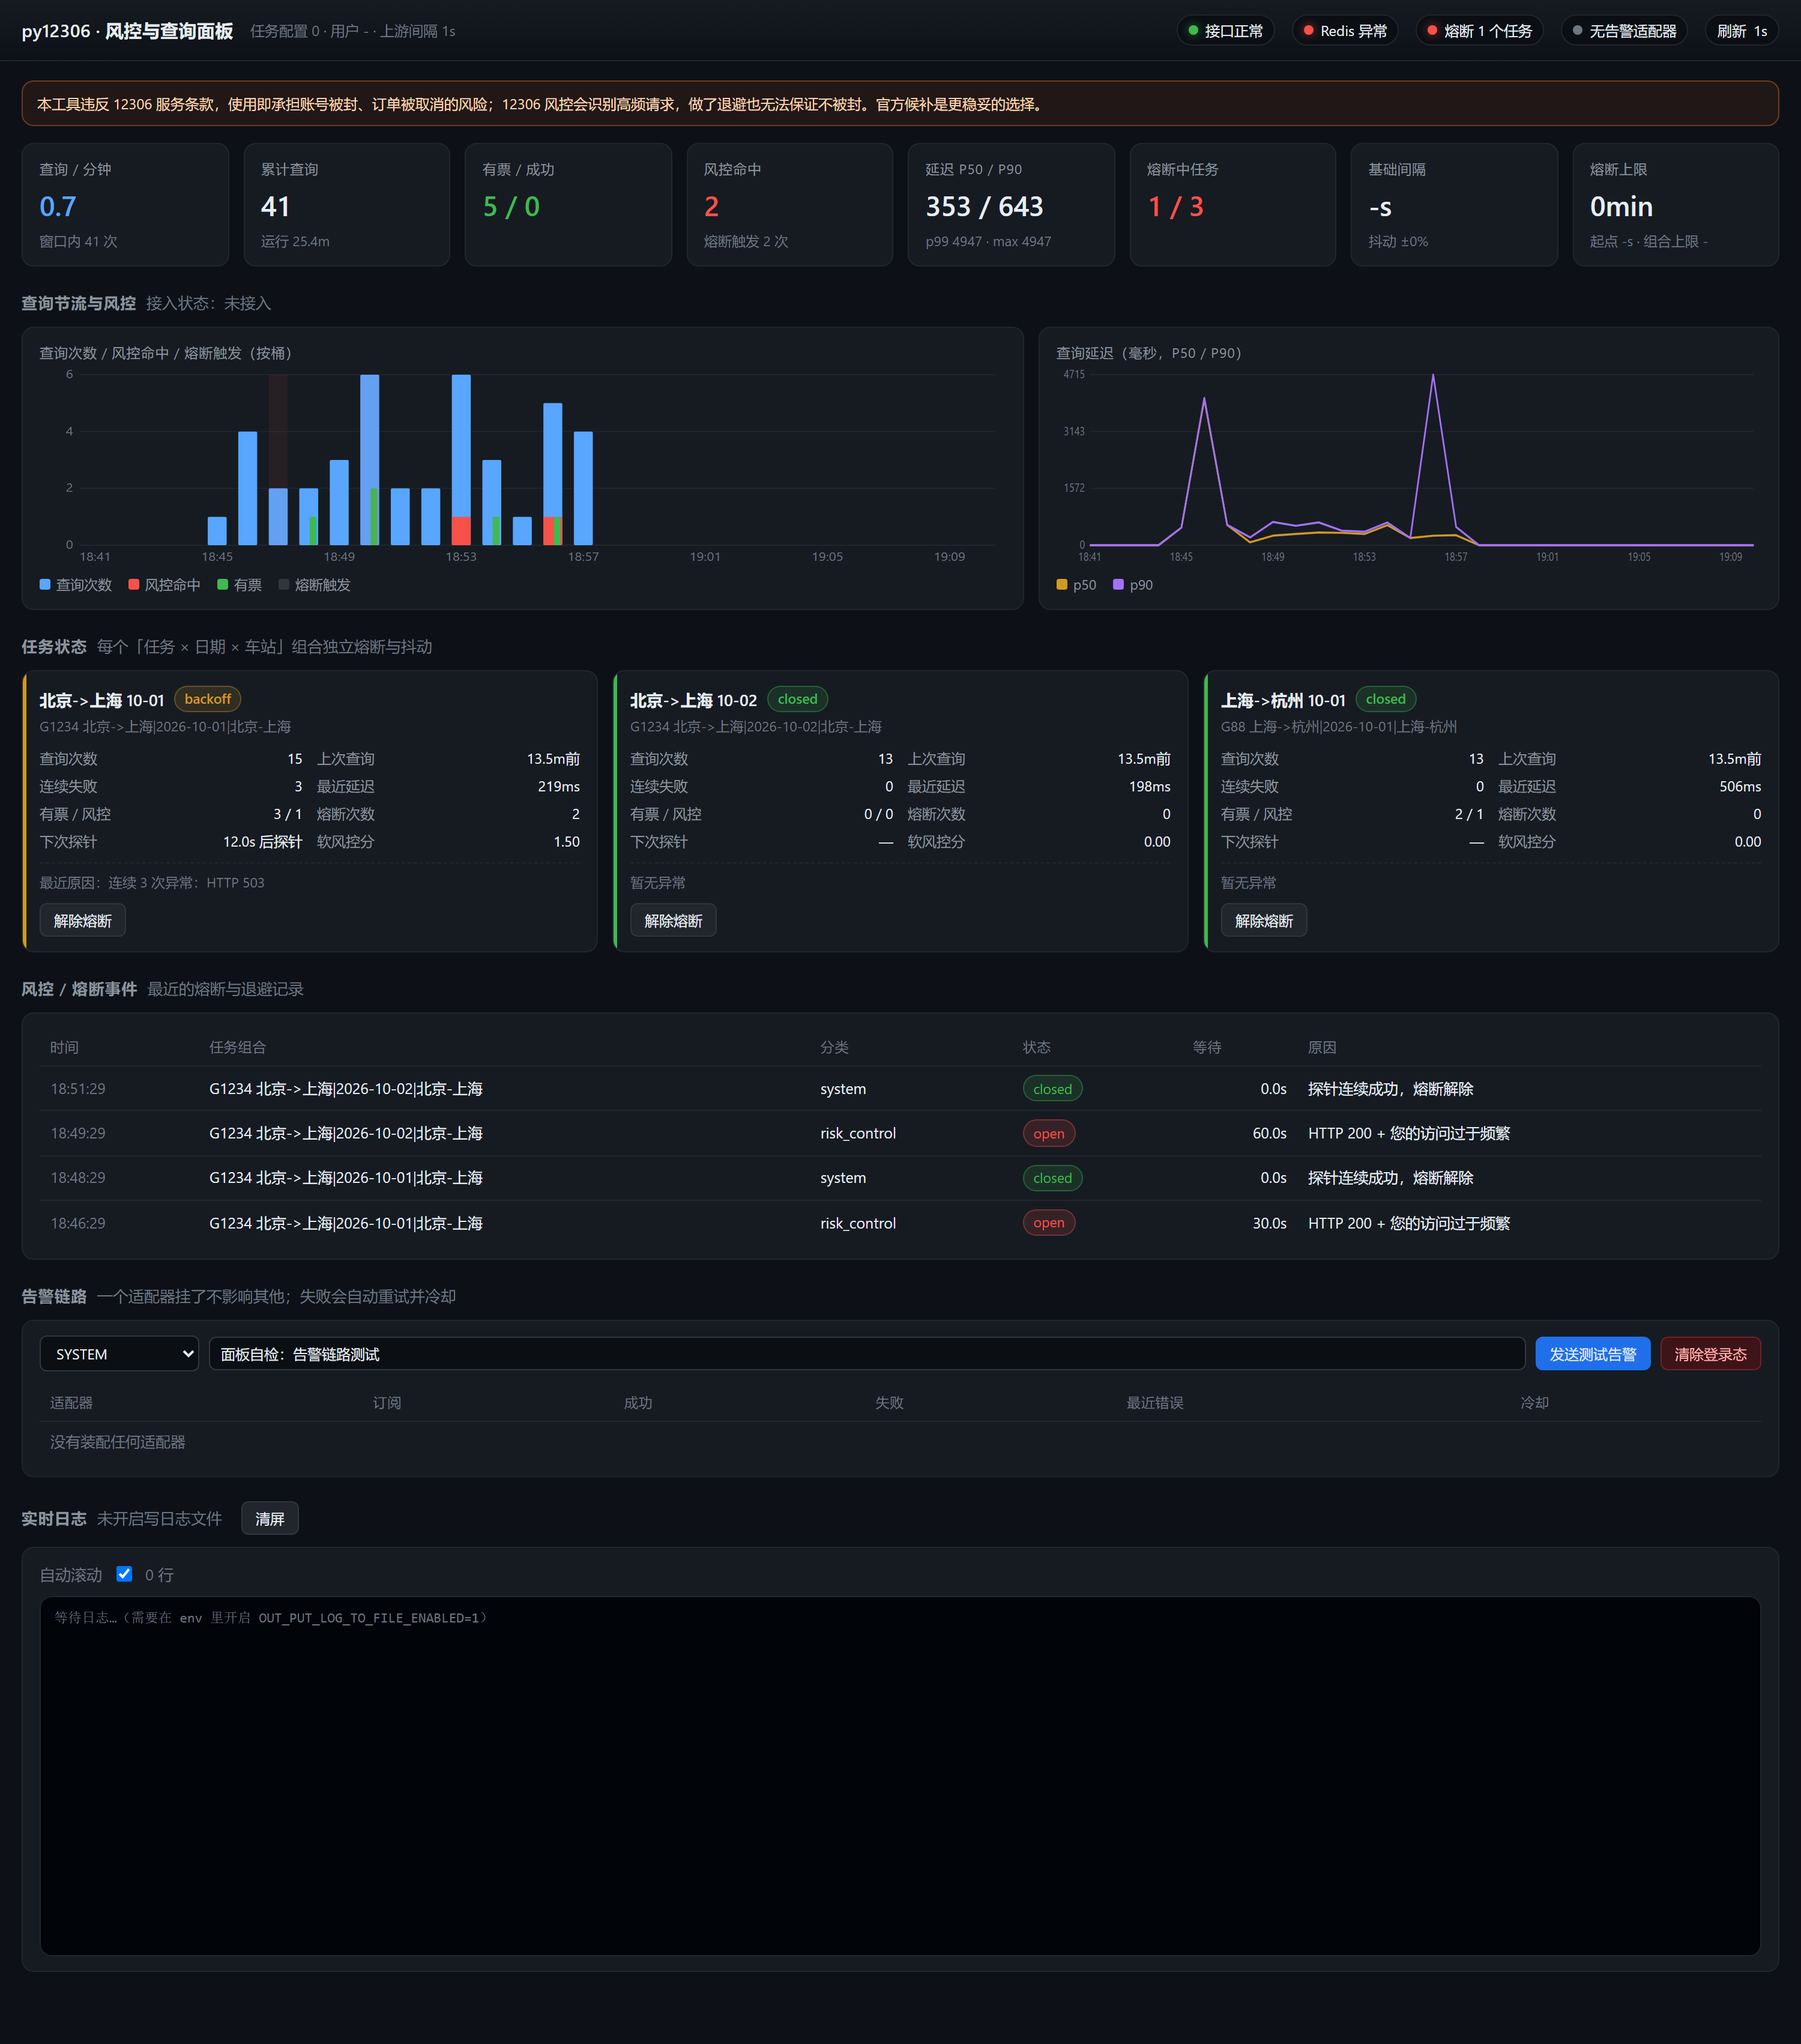
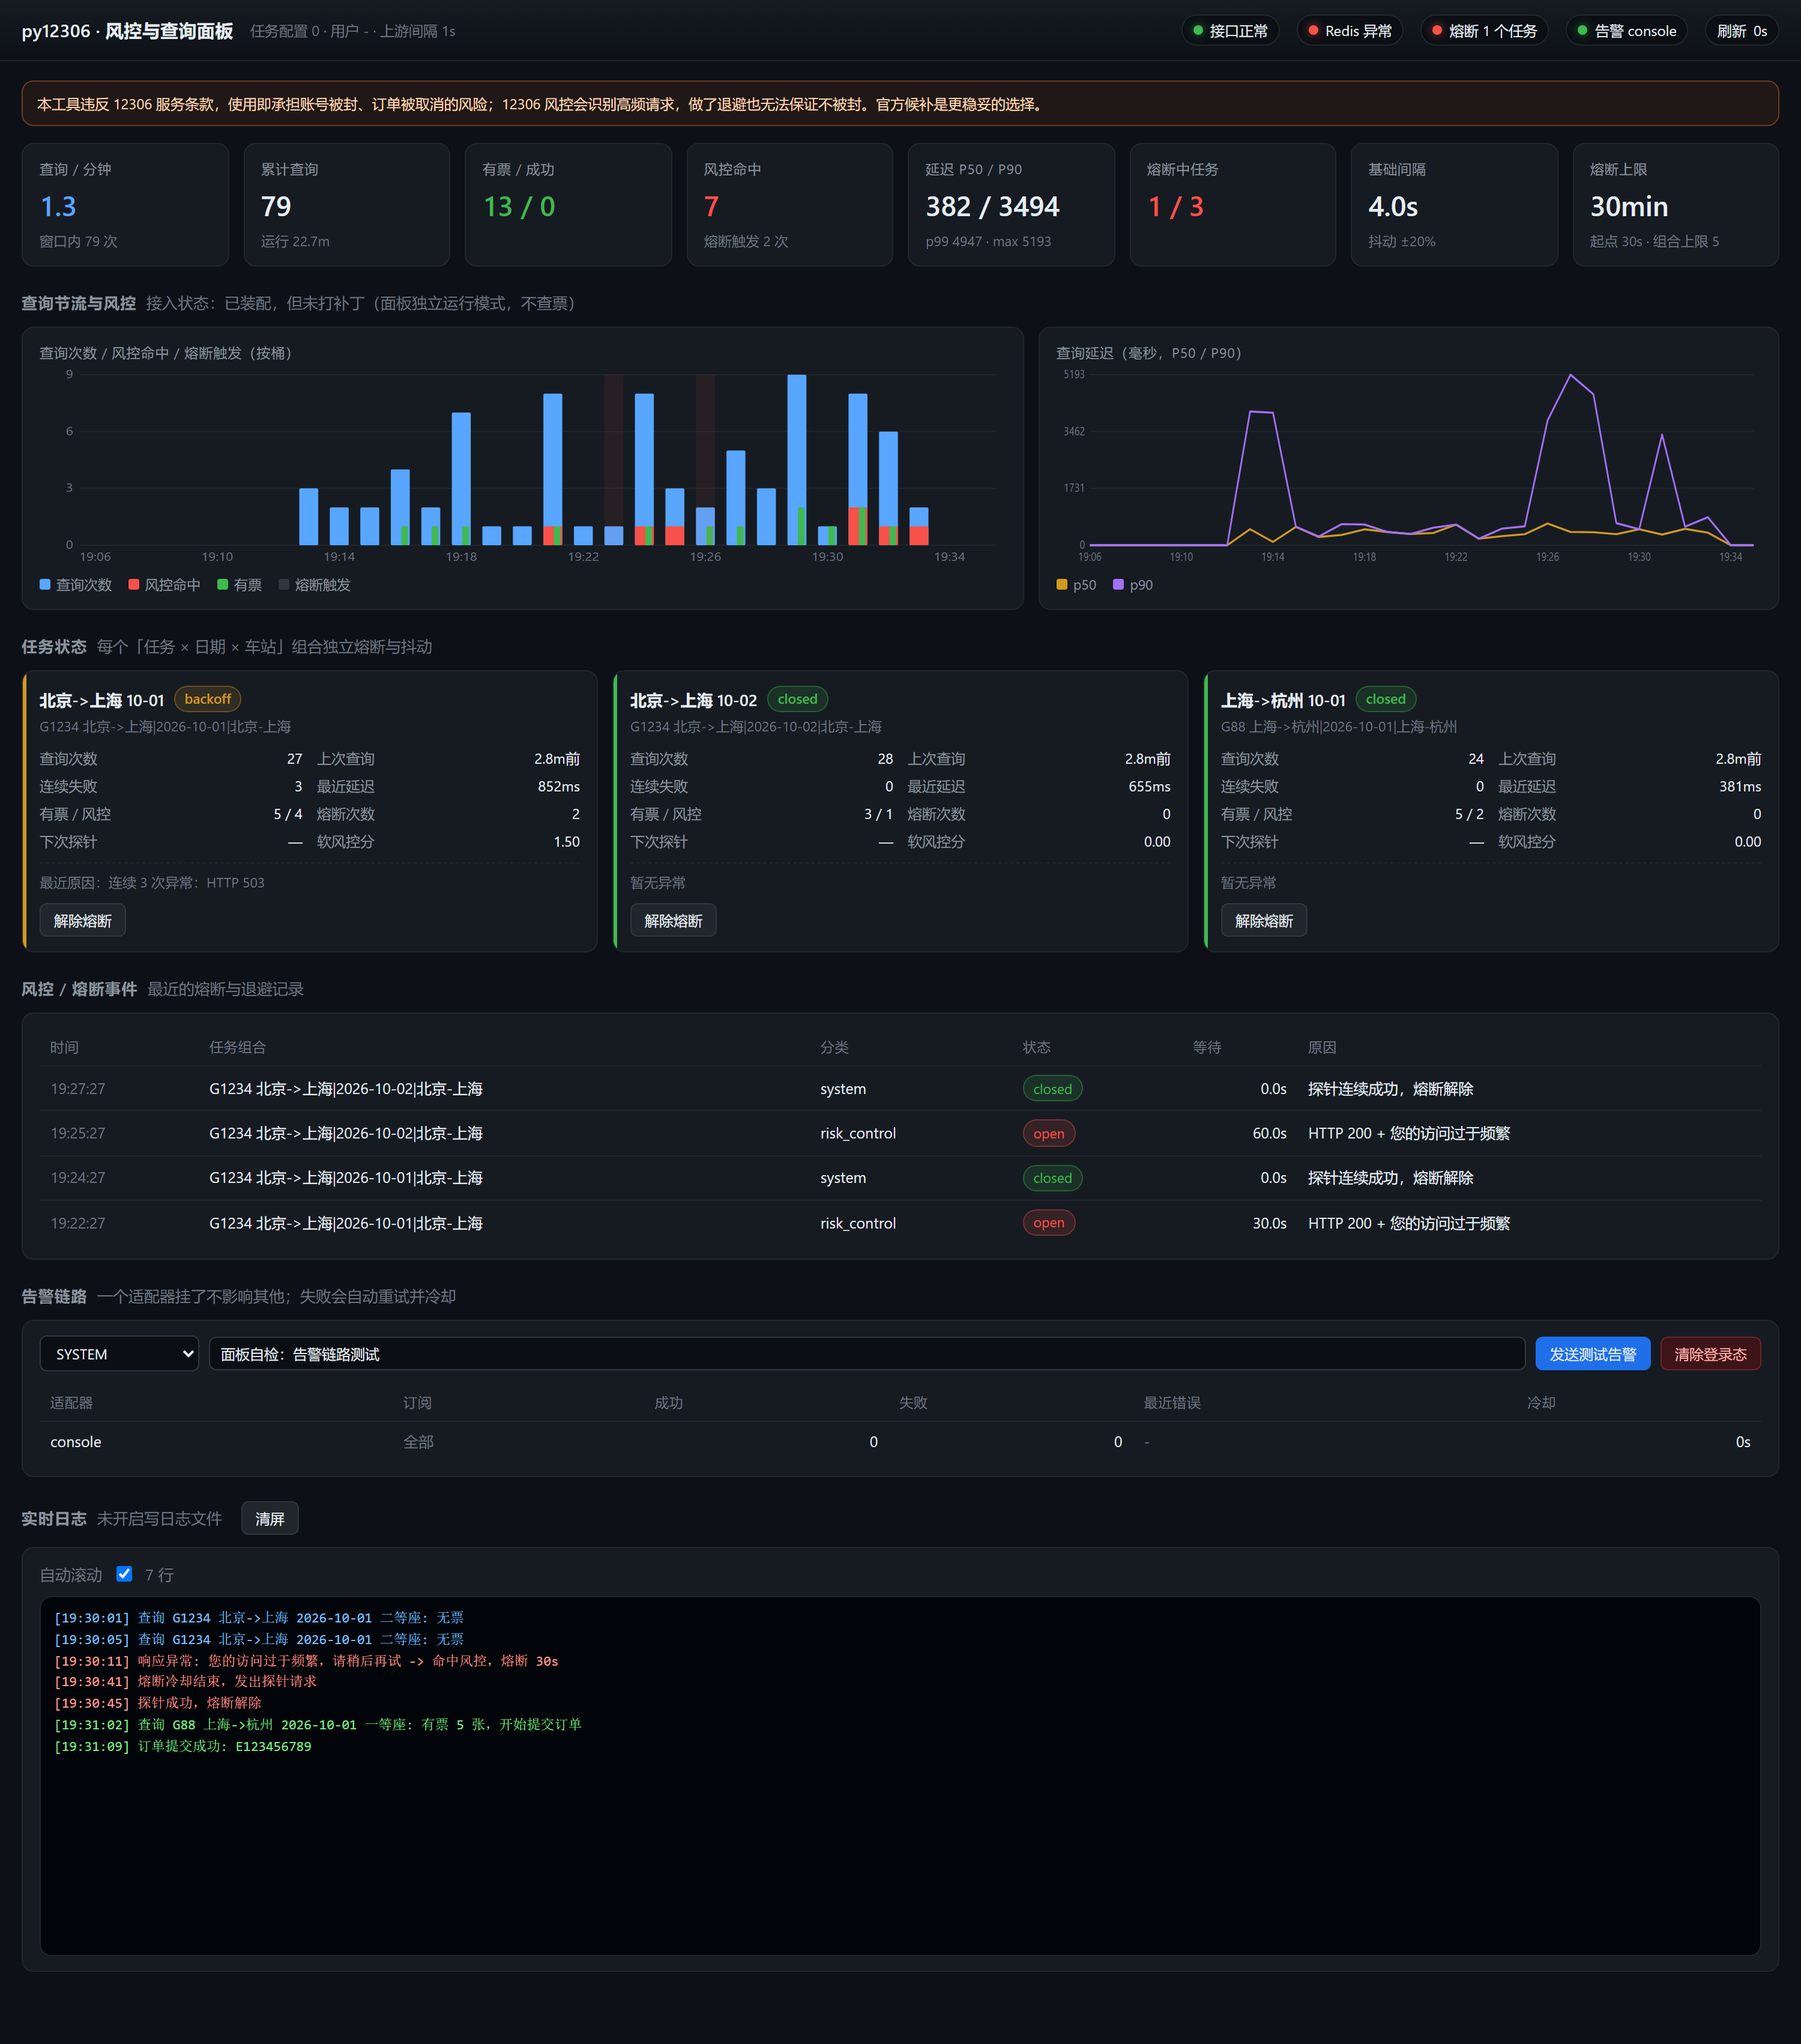
fix(panel): 修 3 处面板显示缺陷 + 日志历史回填
- SSE 连接时先回填尾部 200 行日志，否则打开页面看不到已有日志
- last_query_ago 改为由 updated_at 推导：重启回载后显示 '-' 而不是真实间隔
- 接入状态文案区分「已装配未打补丁（面板独立模式）」与「未装配」
- 页面加 favicon link，消除浏览器请求 /favicon.ico 的 404 噪音
- 面板截图更新（控制台零错误、零 JS 异常）
- 修 sse 端点文档、README 截图同步

diff --git a/py12306/panel/ui/index.html b/py12306/panel/ui/index.html
@@ -4,6 +4,7 @@
 <meta charset="utf-8">
 <meta name="viewport" content="width=device-width, initial-scale=1">
 <title>py12306 · 风控与查询面板</title>
+<link rel="icon" type="image/png" href="/panel/favicon.png">
 <style>
 :root{
   --bg:#0d1117; --bg-soft:#161b22; --bg-card:#161b22; --line:#21262d; --line-soft:#21262d;
@@ -263,7 +264,10 @@ code{background:#0b0f14;border:1px solid var(--line);border-radius:4px;padding:1
       return '<div class="card '+(it.cls||"")+'"><div class="label">'+esc(it.label)+'</div><div class="value">'
         + esc(it.value)+'</div><div class="foot">'+esc(it.foot||"")+'</div></div>';
     }).join("");
-    $("throttle-hint").textContent = "接入状态：" + (i.patched ? "已接入查询循环（safe_stay/get_results/handle_response）" : "未接入");
+    var hookState = i.patched
+      ? "已接入查询循环（safe_stay / get_results / handle_response）"
+      : (i.installed ? "已装配，但未打补丁（面板独立运行模式，不查票）" : "未装配");
+    $("throttle-hint").textContent = "接入状态：" + hookState;
   }
 
   // ---------- 任务卡 ----------

diff --git a/py12306/panel/view.py b/py12306/panel/view.py
@@ -440,6 +440,16 @@ def api_logs_stream():
         if path and Path(path).is_file():
             position = Path(path).stat().st_size
         yield "event: hello\ndata: %s\n\n" % json.dumps({"path": path}, ensure_ascii=False)
+        # 先把尾部已有日志补一遍，否则打开页面只能看到「之后的」日志，历史全丢
+        if path and Path(path).is_file():
+            try:
+                with open(path, "r", encoding="utf-8", errors="replace") as handle:
+                    tail = handle.readlines()[-200:]
+                for line in tail:
+                    if line.strip():
+                        yield "data: %s\n\n" % json.dumps({"line": line.rstrip("\n")}, ensure_ascii=False)
+            except OSError:
+                pass
         idle = 0
         while True:
             if not path or not Path(path).is_file():

diff --git a/railkit/metrics.py b/railkit/metrics.py
@@ -416,7 +416,9 @@ class MetricsStore:
             out = []
             for state in self._tasks.values():
                 item = state.as_dict()
-                if state.updated_at and item["last_query_ago"] is not None:
+                # 「上次查询距今」是相对量：只要知道最后更新时间就能算，
+                # 不必依赖采集时刻写入的值（重启回载后那个值是过期的）
+                if state.updated_at:
                     item["last_query_ago"] = round(max(0.0, ts - state.updated_at), 1)
                 out.append(item)
             return sorted(out, key=lambda d: d["task"])
